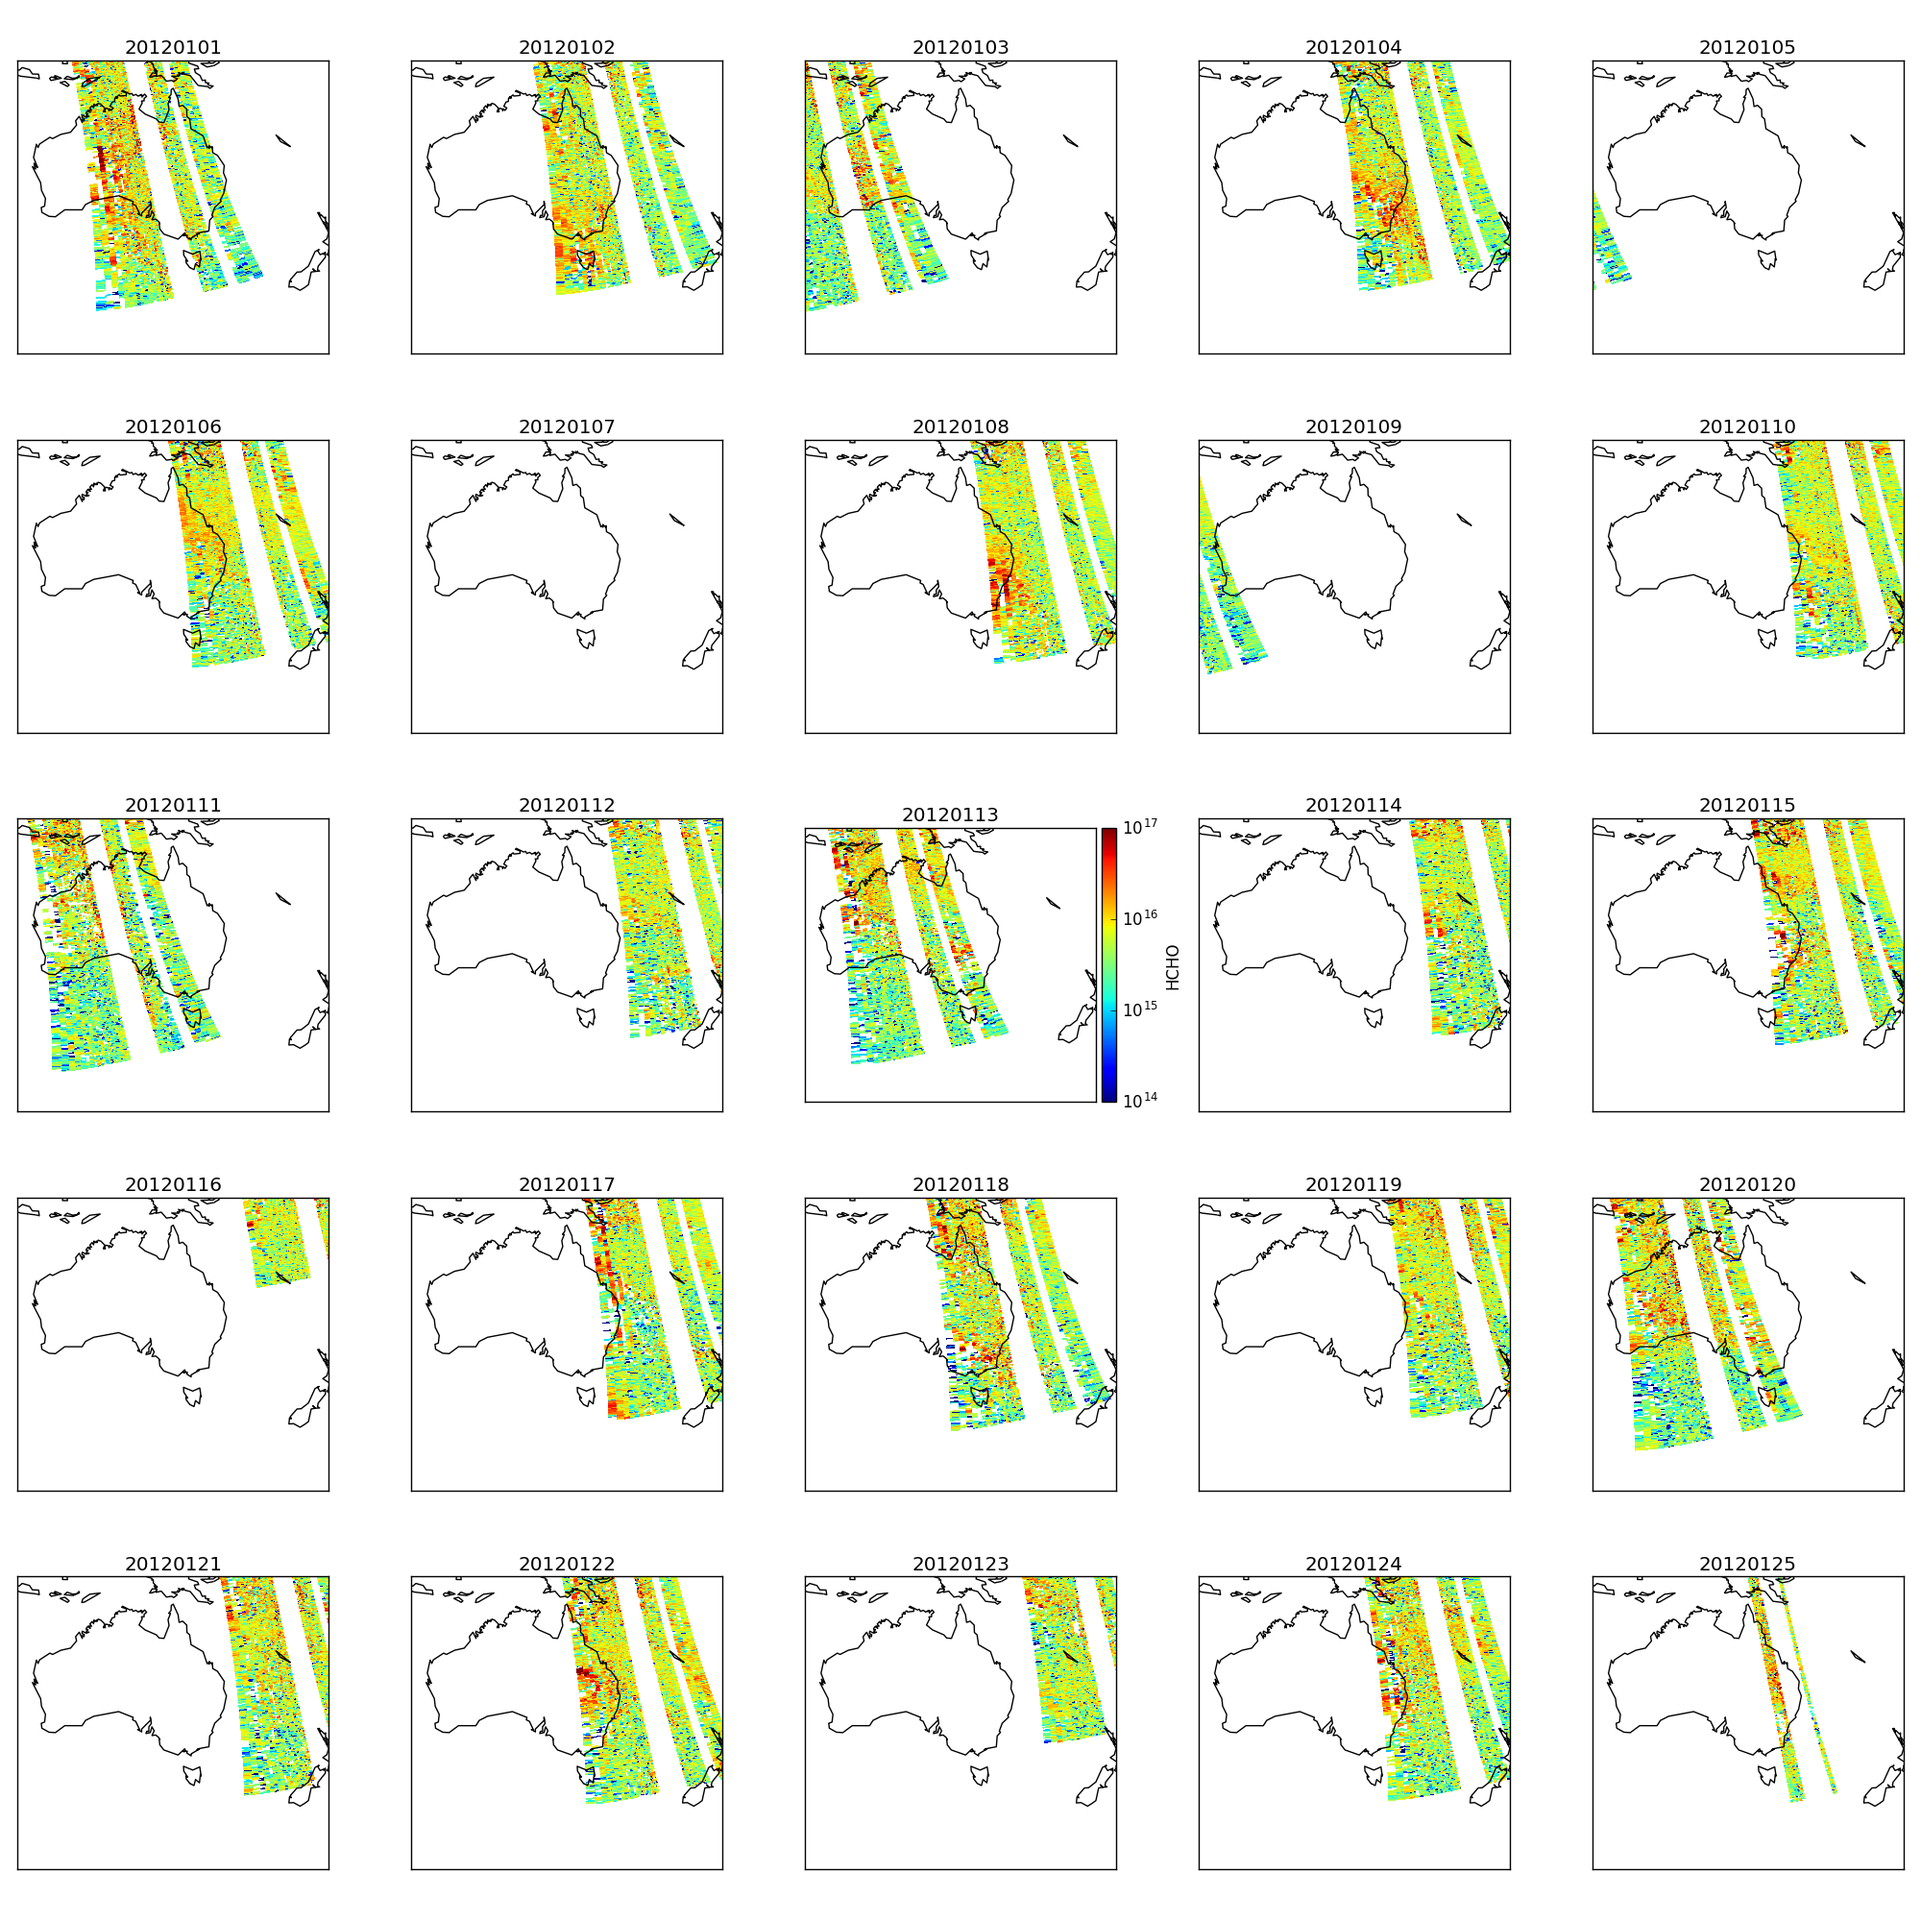
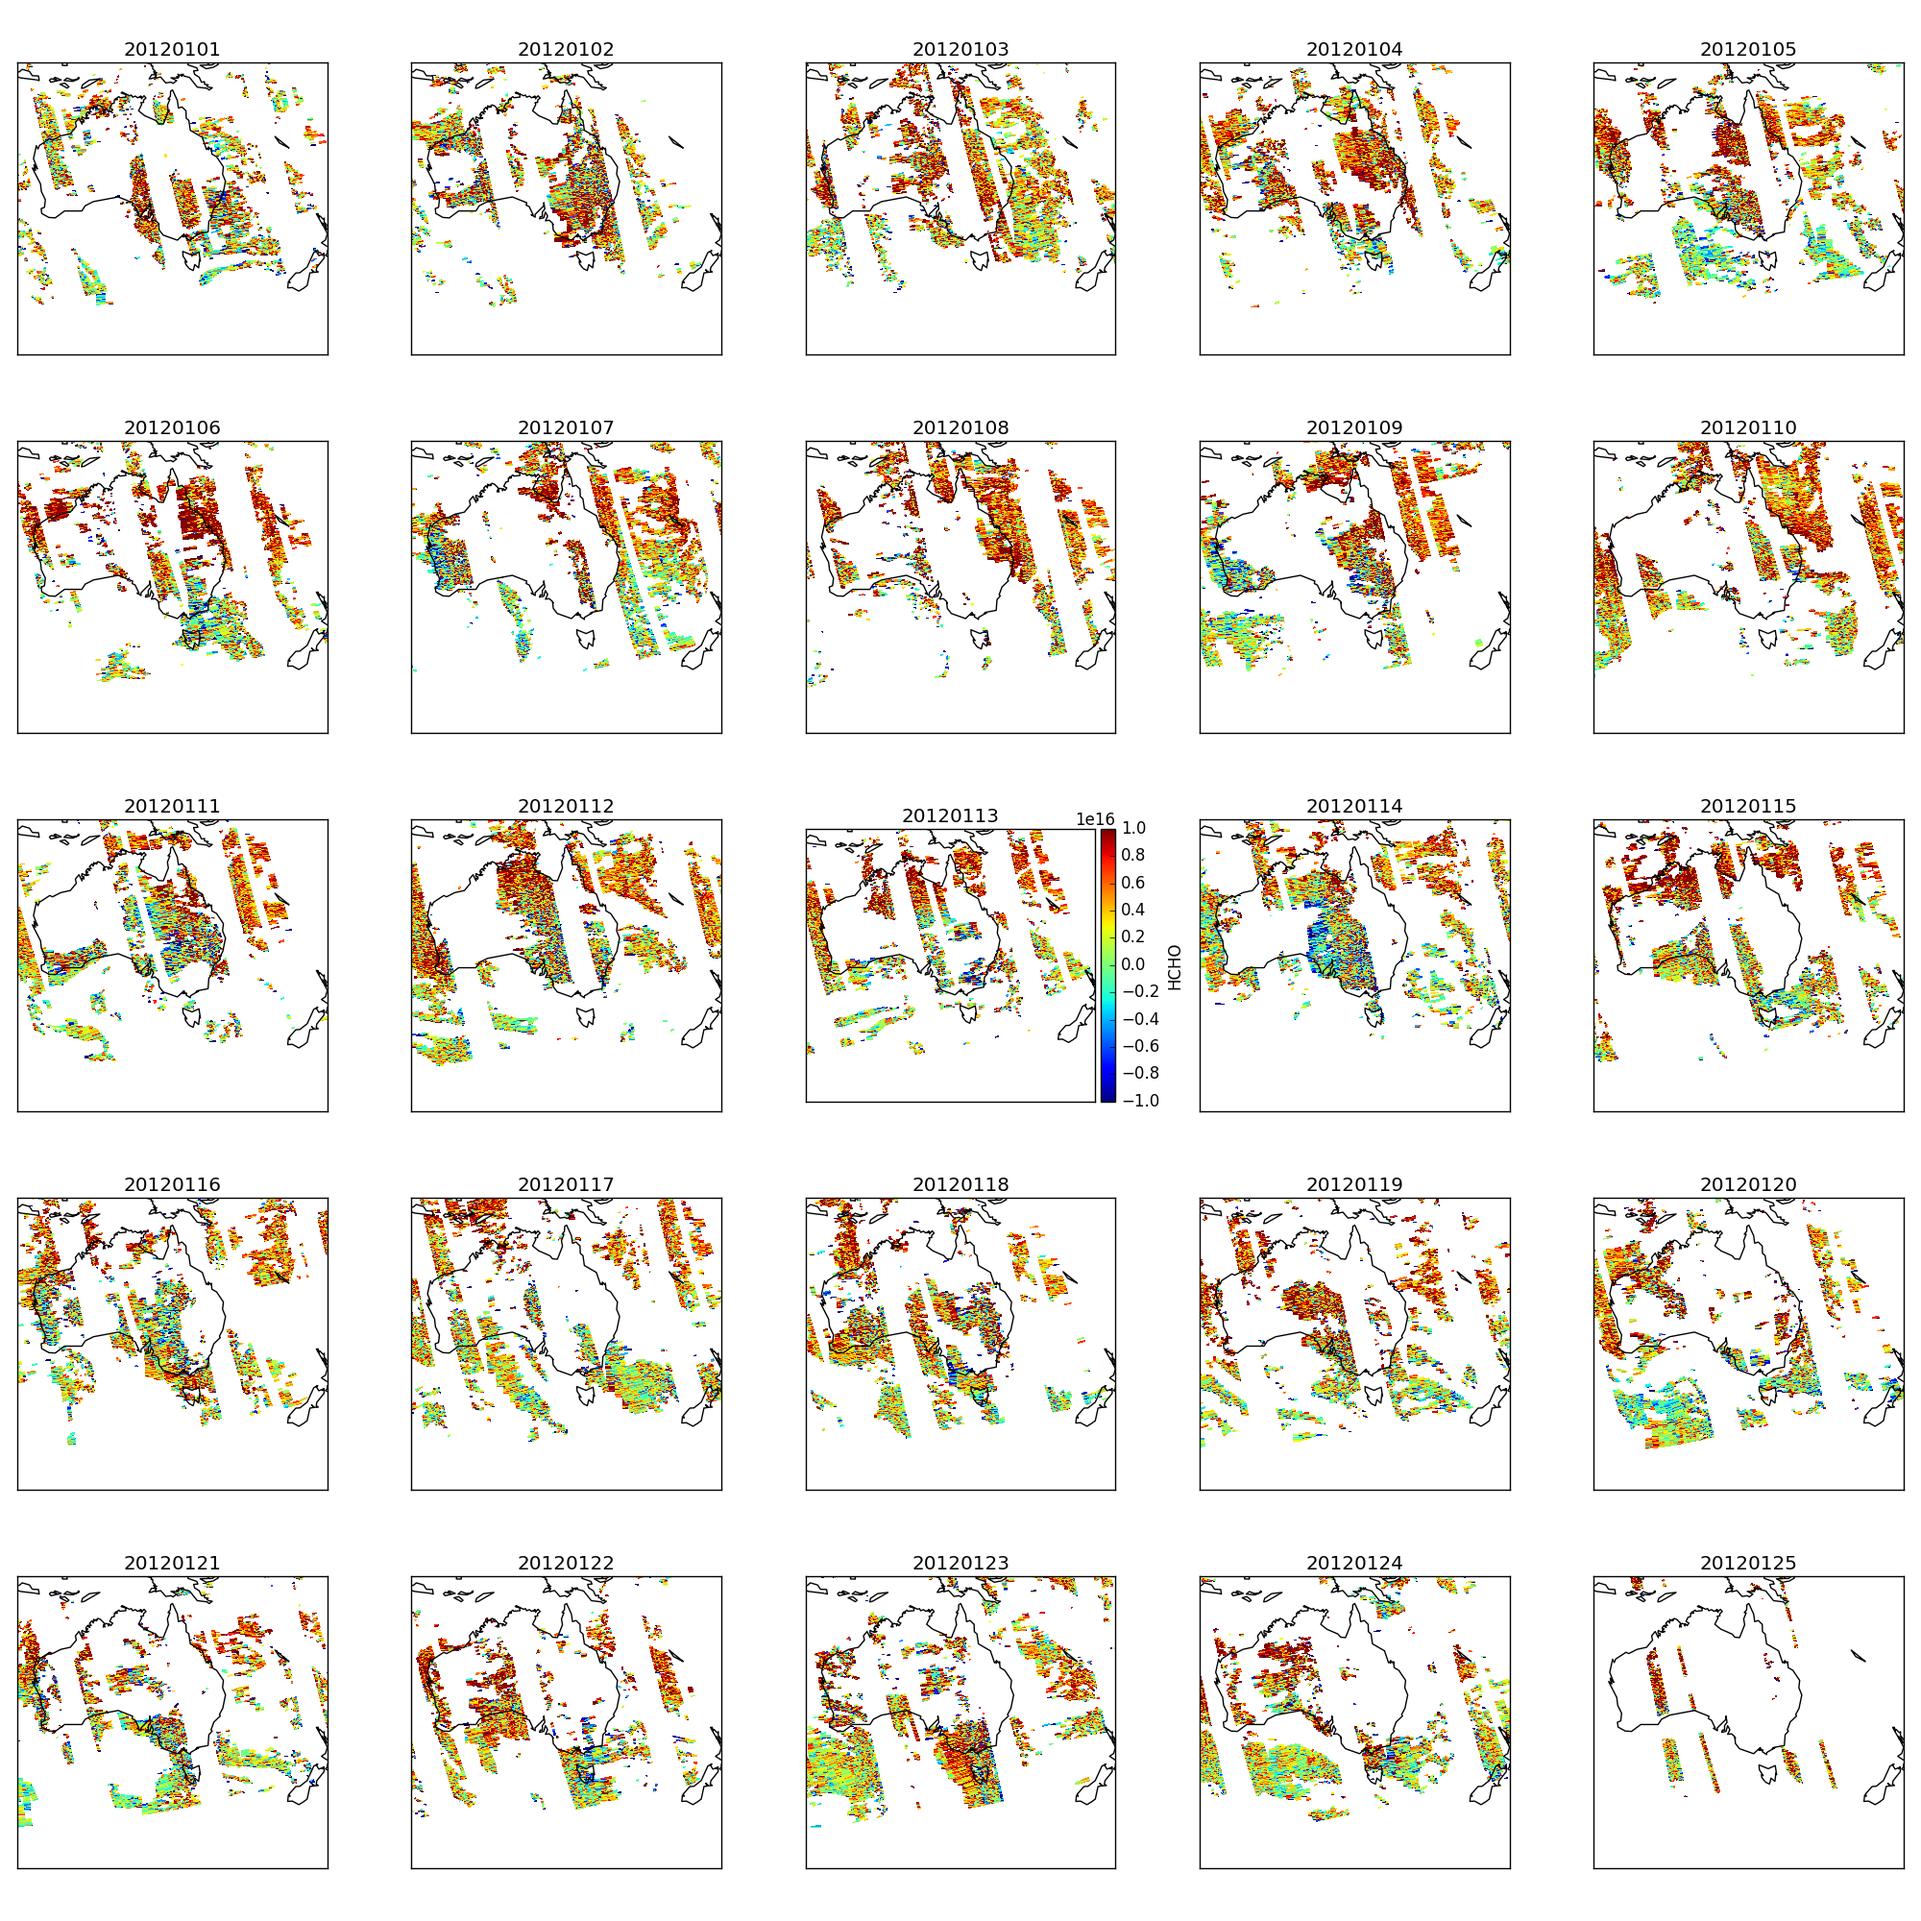
Comparison of full and subset day, updated some colorbars and swath plots, functionalised swath reading

diff --git a/plot_swath.py b/plot_swath.py
@@ -8,16 +8,68 @@ import numpy as np
 from mpl_toolkits.basemap import Basemap
 import glob
 from datetime import datetime, timedelta
-_swathesfolder="/media/jesse/My Book/jwg366/OMI/OMHCHOSubset/"
 
-datafields='/HDFEOS/SWATHS/OMI Total Column Amount HCHO/Data Fields/'
-geofields='/HDFEOS/SWATHS/OMI Total Column Amount HCHO/Geolocation Fields/'
+_swathesfolder="/media/jesse/My Book/jwg366/OMI/OMHCHOSubset/"
+_fullswathexample="/home/jesse/Desktop/Repos/OMI/data/omhcho_full_20080129/"
+_datafields='/HDFEOS/SWATHS/OMI Total Column Amount HCHO/Data Fields/'
+_geofields='/HDFEOS/SWATHS/OMI Total Column Amount HCHO/Geolocation Fields/'
+_rscfield=_datafields+'ReferenceSectorCorrectedVerticalColumn'
+_vcfield =_datafields+'ColumnAmount'
+
+def read_swath(fname, rsc=True, cloudy=0.4, cutlons=[80,200]):
+    # open file
+    fh = h5py.File(fname,"r")
     
-def plot_25_days(start=datetime(2012,1,1)):
+    # pull out variables of interest
+    lons=fh[_geofields+'Longitude'][:]
+    lats=fh[_geofields+'Latitude'][:]
+    try:
+        hcho = fh[[_vcfield,_rscfield][rsc]][:]
+    except KeyError:
+        print("Warning: file with missing RSC field, using VC field instead: %s "%fname)
+        hcho = fh[_vcfield][:]
+        
+        
+    
+    # flags and cloud fraction
+    qf = fh[_datafields+'MainDataQualityFlag'][:]
+    try:
+        xqf  = fh[_geofields +'XtrackQualityFlags'][:]
+    except KeyError:
+        print("Warning: file missing xtrack quality flags: %s"%fname)
+        xqf = np.zeros(qf.shape)
+    cld = fh[_datafields+'AMFCloudFraction'][:] > cloudy
+    
+    # remove non optimal flagged data
+    hcho[qf+xqf != 0]=np.NaN
+    lons[qf+xqf != 0]=np.NaN
+    lats[qf+xqf != 0]=np.NaN
+    
+    # Make sure lons don't jump to -180
+    lons[lons<0]=lons[lons<0]+360.0
+    # cut away some chaff
+    lons[lons<cutlons[0]] = np.NaN
+    lons[lons>cutlons[1]] = np.NaN
+    lats[lons<cutlons[0]] = np.NaN
+    lats[lons>cutlons[1]] = np.NaN
+    hcho[lons<cutlons[0]] = np.NaN
+    hcho[lons>cutlons[1]] = np.NaN
+    
+    # remove cloudy bits
+    lons[cld]=np.NaN
+    lats[cld]=np.NaN
+    hcho[cld]=np.NaN
+    
+    # close file
+    fh.close()
+    return hcho,lats,lons
+
+def plot_25_days(start=datetime(2012,1,1),rsc=True,cloudy=0.4):
     # set figure window giving x, y sizes
     fig,axes=plt.subplots(5,5,figsize=(20,20))
-    
+    colour_range=[-1e16,1e16]
     datetimes=[datetime(2012,1,1)+timedelta(days=d) for d in range(25)]
+    mins,means=[],[]
     for i,day in enumerate(datetimes):
         plt.sca(axes[np.floor(i/5),np.mod(i,5)])
         pattern="%s*%4dm%02d%02d*.he5"%(_swathesfolder,day.year,day.month,day.day)
@@ -28,35 +80,18 @@ def plot_25_days(start=datetime(2012,1,1)):
         m=Basemap(llcrnrlat=-55,  urcrnrlat=-5,
                   llcrnrlon=110, urcrnrlon=175,
                   resolution='c',projection='merc')
-        
         dayhcho=[]
         for fname in filename:
-            # open file
-            fh = h5py.File(filename[0],"r")
-            
-            # pull out variables of interest
-            lons=fh[geofields+'Longitude'][:]
-            lats=fh[geofields+'Latitude'][:]
-            hcho = fh[datafields+'ReferenceSectorCorrectedVerticalColumn'][:]
-            qf = fh[datafields+'MainDataQualityFlag'][:]
-            xqf  = fh[geofields +'XtrackQualityFlags'][:]
-            hcho[qf+xqf != 0]=np.NaN
+            hcho,lats,lons=read_swath(fname, rsc=rsc,cloudy=cloudy)
             dayhcho.append(hcho)
-            lons[qf+xqf != 0]=np.NaN
-            # try keeping positive lons...
-            lons[lons<0]=lons[lons<0]+360.0
-            lats[qf+xqf != 0]=np.NaN
-            # close file
-            fh.close()
-        
-            # lat lon are 1D, basemap uses 2D mesh
-            #lon,lat = np.meshgrid(lons,lats)
+            # basemap gridpoints
             xi, yi = m(lons,lats)
             
-            # draw the CO total column onto the map
-            cs = m.pcolormesh(xi,yi,hcho,vmin=1e14, vmax=1e17, norm=LogNorm())
-        print ("%s average = %5.3e"%(ymdstr,np.nanmean(np.array(dayhcho))))
-        
+            # draw the total column onto the map
+            cs = m.pcolormesh(xi,yi,hcho,vmin=colour_range[0], vmax=colour_range[1])#, norm=LogNorm())
+        dayhcho=np.vstack(dayhcho)
+        mins.append(np.nanmin(dayhcho))
+        means.append(np.nanmean(dayhcho))
         # add coastlines and equator
         m.drawcoastlines()
         
@@ -67,14 +102,16 @@ def plot_25_days(start=datetime(2012,1,1)):
         
         #ax.set_title('Total Column Ascending '+str(date))
         plt.title(ymdstr)
+    print("averages")
+    print(means)
+    print("minimums")
+    print(mins)
     plt.tight_layout()
     plt.savefig("ExampleDays.png")
+    plt.close()
 
 
-def examine_single_day(day=datetime(2012,1,14)):
-    ###################
-    # Look at 20120114 in more detail...
-    ###################
+def examine_single_day(day=datetime(2012,1,14),cloudy=0.4):
     f=plt.figure(figsize=(13,13))
     
     gs=gridspec.GridSpec(3,2)
@@ -95,27 +132,12 @@ def examine_single_day(day=datetime(2012,1,14)):
     daylons=[]
     
     for fname in filename:
-        # open file
-        fh = h5py.File(filename[0],"r")
-        
-        # pull out variables of interest
-        lons=fh[geofields+'Longitude'][:]
-        lats=fh[geofields+'Latitude'][:]
-        hcho = fh[datafields+'ReferenceSectorCorrectedVerticalColumn'][:]
-        qf = fh[datafields+'MainDataQualityFlag'][:]
-        xqf  = fh[geofields +'XtrackQualityFlags'][:]
-        hcho[qf+xqf != 0]=np.NaN
+        hcho,lats,lons=read_swath(fname,cloudy=cloudy)
         dayhcho.append(hcho)
-        lons[qf+xqf != 0]=np.NaN
-        lons[lons<0]=lons[lons<0]+360.0
-        lats[qf+xqf != 0]=np.NaN
-        daylons.append(lons)
         daylats.append(lats)
-        # close file
-        fh.close()
-    
-        # lat lon are 1D, basemap uses 2D mesh
-        #lon,lat = np.meshgrid(lons,lats)
+        daylons.append(lons)
+        
+        # basemap grid
         xi, yi = m(lons,lats)
         
         # draw the CO total column onto the map
@@ -125,14 +147,14 @@ def examine_single_day(day=datetime(2012,1,14)):
     m.drawcoastlines()
     
     # turn into numpy arrays and remove nans
-    dayhcho=np.array(dayhcho)
+    dayhcho=np.vstack(dayhcho)
     dayhcho=dayhcho[~np.isnan(dayhcho)]
     # look at plus and minus seperately
     dayhchoplus=dayhcho[dayhcho > 0]
     dayhchominus=-1*dayhcho[dayhcho<0]
-    daylats=np.array(daylats)
+    daylats=np.vstack(daylats)
     daylats=daylats[~np.isnan(daylats)]
-    daylons=np.array(daylons)
+    daylons=np.vstack(daylons)
     daylons=daylons[~np.isnan(daylons)]
     
     bins=np.logspace(12,19,50)
@@ -161,6 +183,7 @@ def examine_single_day(day=datetime(2012,1,14)):
     plt.title('longitude hist')
     plt.suptitle(ymdstr,fontsize=25)
     plt.savefig("Swath_%s"%ymdstr)
+    plt.close()
 
 def negative_swath(day=datetime(2012,1,14)):
     
@@ -179,21 +202,7 @@ def negative_swath(day=datetime(2012,1,14)):
         plt.sca(ax)
         for fname in filename:
             # open file
-            fh = h5py.File(filename[0],"r")
-            
-            # pull out variables of interest
-            lons=fh[geofields+'Longitude'][:]
-            lats=fh[geofields+'Latitude'][:]
-            hcho = fh[datafields+'ReferenceSectorCorrectedVerticalColumn'][:]
-            qf = fh[datafields+'MainDataQualityFlag'][:]
-            xqf  = fh[geofields +'XtrackQualityFlags'][:]
-            hcho[qf+xqf != 0]=np.NaN
-            lons[qf+xqf != 0]=np.NaN
-            lons[lons<0]=lons[lons<0]+360.0
-            lats[qf+xqf != 0]=np.NaN
-            
-            # close file
-            fh.close()
+            hcho,lats,lons=read_swath(fname)
             
             cbarstr="molecs/cm2"
             if j==1:
@@ -218,9 +227,45 @@ def negative_swath(day=datetime(2012,1,14)):
     
     plt.suptitle(ymdstr,fontsize=25)
     plt.savefig("NegativeSwath_%s"%ymdstr)
+    plt.close()
+
+def compare_to_non_subset(rsc=True, cloudy=0.4):
+    f,axes=plt.subplots(2,1,figsize=(13,13))
+    day=datetime(2008,1,29)
+    vlims=[-4e16,5e16]
+    # read subset data
+    patternsub="%s*%4dm%02d%02d*.he5"%(_swathesfolder,day.year,day.month,day.day)
+    filenamesub = glob.glob(patternsub) # grab files matching pattern
+    
+    patternfull="%s*%4dm%02d%02d*.he5"%(_fullswathexample,day.year,day.month,day.day)
+    filenamefull = glob.glob(patternfull)
+    ymdstr="%4d%02d%02d"%(day.year,day.month,day.day)
+    
+    for j,ax in enumerate(axes):
+        # basemap over area of interest
+        m=Basemap(llcrnrlat=-60,  urcrnrlat=5,
+              llcrnrlon=90, urcrnrlon=190,
+              resolution='c',projection='merc')
+        plt.sca(ax)
+        for fname in [filenamesub,filenamefull][j]:
+            # open file
+            hcho,lats,lons=read_swath(fname)
+            
+            xi, yi = m(lons,lats)
+            cs = m.pcolormesh(xi,yi,hcho,vmin=vlims[0], vmax=vlims[1])
+        cb=m.colorbar(cs,"right",size="5%", pad="2%")
+        cb.set_label('molecs/cm2')
+        m.drawcoastlines()
+        plt.title(["Subset","Full"][j])
+    
+    
+    plt.suptitle(ymdstr,fontsize=25)
+    plt.savefig("SubsetVsFull_%s"%ymdstr)
+    plt.close()
 
 if __name__=="__main__":
     print("running")
-    #examine_single_day()
-    negative_swath()
-    #plot_25_days()
+    #examine_single_day(cloudy=0.1)
+    #negative_swath()
+    #plot_25_days(rsc=True,cloudy=0.1)
+    compare_to_non_subset()
